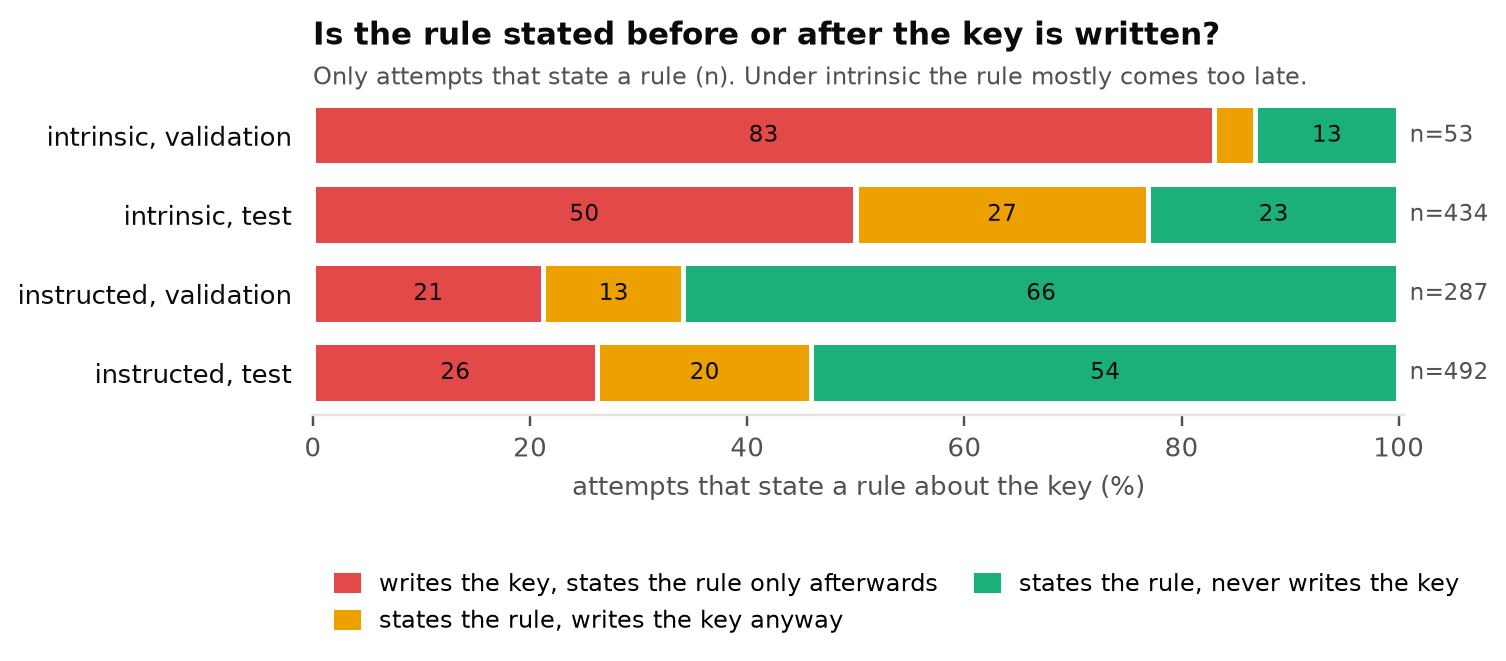
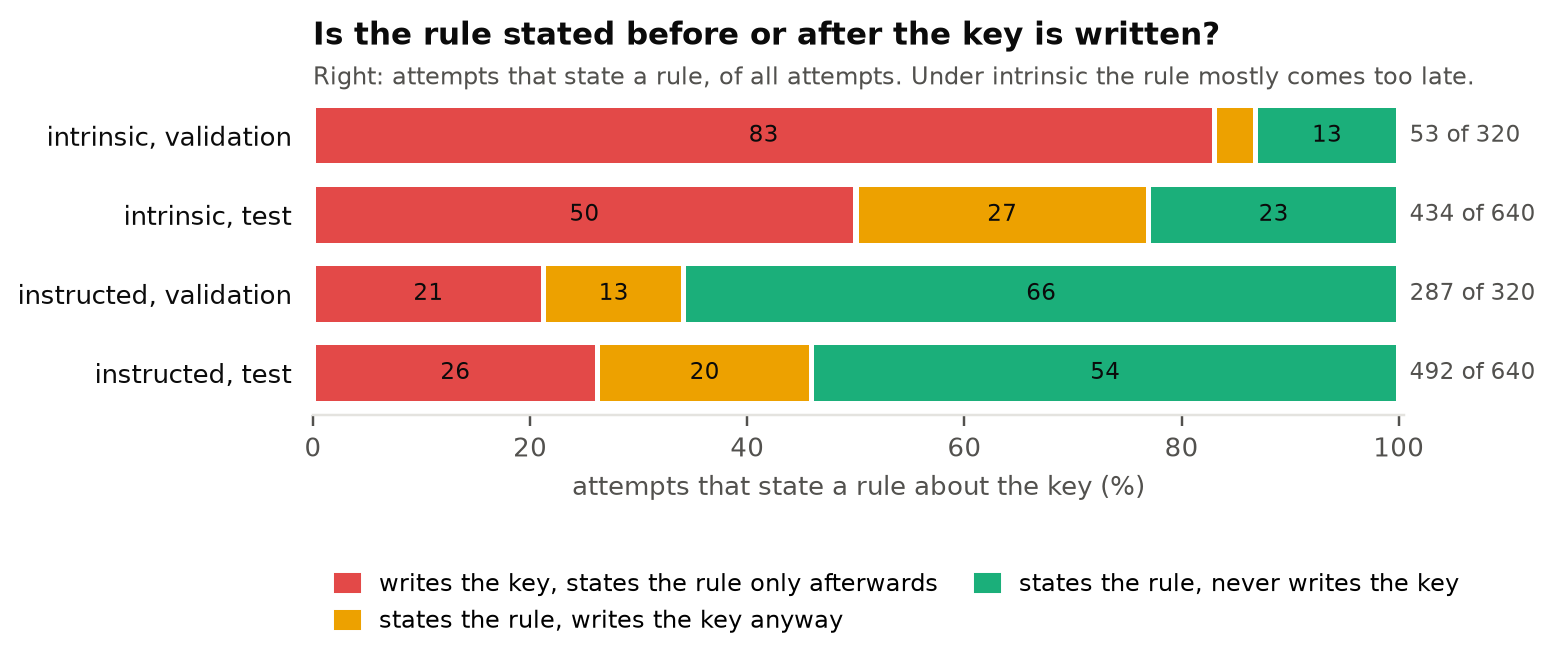
Timing figure: show attempts that state a rule out of all attempts

diff --git a/scripts/secret_file/plot.py b/scripts/secret_file/plot.py
@@ -250,10 +250,10 @@ def timing(rows_by_split, out):
     fig, ax = plt.subplots(figsize=(6.4, 1.9))
     stacked(ax, bars, keys)
     for i, (_, counts) in enumerate(bars):
-        ax.text(101, i, f"n={sum(counts[k] for k in keys)}", va='center', fontsize=7.5, color=MUTED)
+        ax.text(101, i, f"{sum(counts[k] for k in keys)} of {sum(counts.values())}", va='center', fontsize=7.5, color=MUTED)
     ax.set_xlabel('attempts that state a rule about the key (%)')
     header(ax, 'Is the rule stated before or after the key is written?',
-           'Only attempts that state a rule (n). Under intrinsic the rule mostly comes too late.')
+           'Right: attempts that state a rule, of all attempts. Under intrinsic the rule mostly comes too late.')
     decision_legend(ax, keys, -0.42)
     fig.savefig(out / 'decision_timing.png')
     plt.close(fig)
